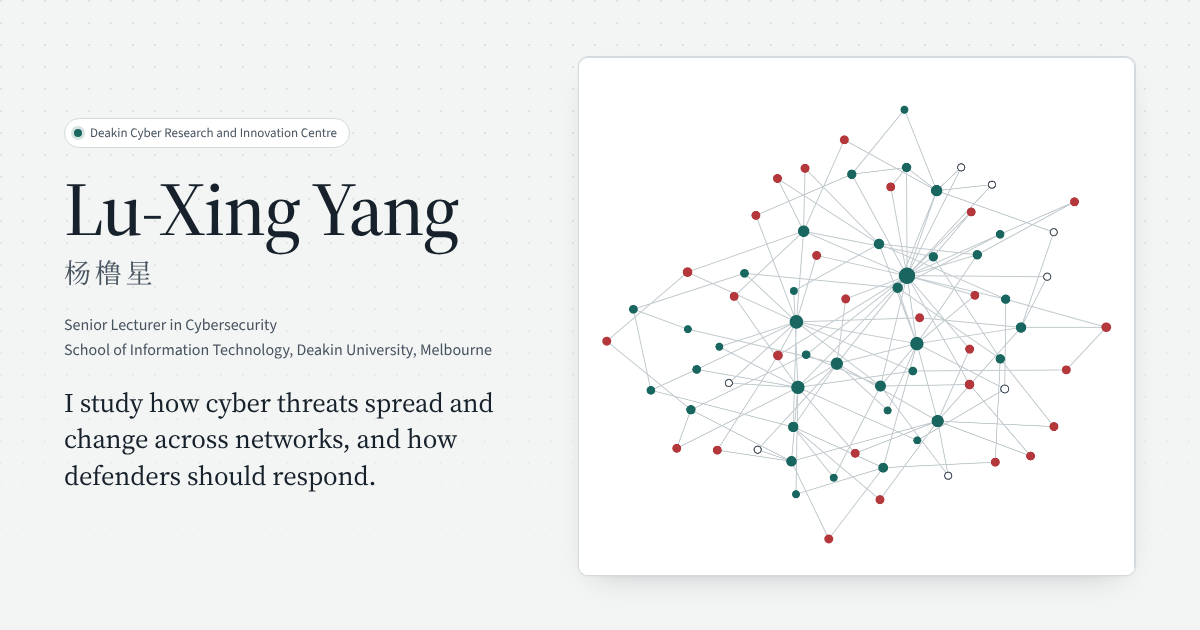
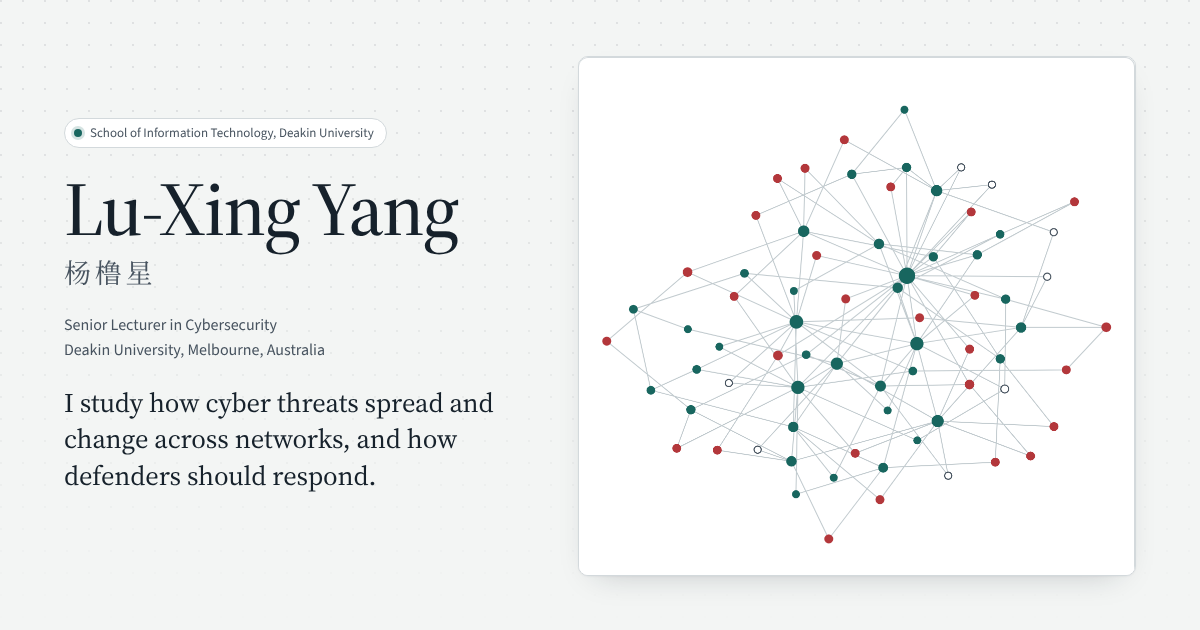
Name only the School of Information Technology as the affiliation
Drop every mention of the Deakin Cyber Research and Innovation Centre,
including the stream it hosts: hero badge, About text (EN and ZH),
appointments, the HDR coordinator role, structured data and the share
image, which is re-rendered and versioned so previews refresh.

Claude-Session: https://claude.ai/code/session_01N2e5Gw34mupKycE3QWt53y

Changed region(s): [[0.0925, 0.181, 0.3083, 0.2413], [0.0617, 0.5429, 0.4008, 0.573]]

diff --git a/index.html b/index.html
@@ -14,7 +14,7 @@
 <meta property="og:site_name" content="Lu-Xing Yang">
 <meta property="og:description" content="Senior Lecturer in Cybersecurity, School of Information Technology, Deakin University. He studies how cyber threats spread across networks and how to defend against them, using game theory, optimal control and reinforcement learning.">
 <meta property="og:url" content="https://lyang910920.github.io/">
-<meta property="og:image" content="https://lyang910920.github.io/assets/og.png">
+<meta property="og:image" content="https://lyang910920.github.io/assets/og.png?v=d93e9091">
 <meta property="og:image:alt" content="Lu-Xing Yang 杨橹星, Senior Lecturer in Cybersecurity at Deakin University, beside a drawing of a network with infected and patched hosts">
 <meta property="og:image:width" content="1200">
 <meta property="og:image:height" content="630">
@@ -741,7 +741,7 @@ h1,h2,h3,h4,.qq,.gt,.what,.lt,.pub-t,.case-k,.pub-note,.sub-h{text-wrap:balance}
   "alternateName": ["杨橹星", "Luxing Yang"],
   "jobTitle": "Senior Lecturer in Cybersecurity",
   "worksFor": {"@type": "CollegeOrUniversity", "name": "Deakin University", "url": "https://www.deakin.edu.au/"},
-  "affiliation": {"@type": "ResearchOrganization", "name": "Deakin Cyber Research and Innovation Centre"},
+  "affiliation": {"@type": "Organization", "name": "School of Information Technology, Deakin University"},
   "alumniOf": {"@type": "CollegeOrUniversity", "name": "Chongqing University"},
   "email": "mailto:y.luxing@deakin.edu.au",
   "address": {"@type": "PostalAddress", "streetAddress": "221 Burwood Highway", "addressLocality": "Burwood", "addressRegion": "VIC", "postalCode": "3125", "addressCountry": "AU"},
@@ -868,7 +868,7 @@ h1,h2,h3,h4,.qq,.gt,.what,.lt,.pub-t,.case-k,.pub-note,.sub-h{text-wrap:balance}
   <div class="wrap">
     <div class="hero-grid">
     <div class="intro">
-      <p class="where" style="--k:0"><span class="dot" aria-hidden="true"></span><span class="en">Deakin Cyber Research and Innovation Centre</span><span class="zh" lang="zh-Hans">迪肯大学网络安全研究与创新中心</span></p>
+      <p class="where" style="--k:0"><span class="dot" aria-hidden="true"></span><span class="en">School of Information Technology, <span class="nw">Deakin University</span></span><span class="zh" lang="zh-Hans">迪肯大学信息技术学院</span></p>
       <h1 class="name" id="name" style="--k:1">
         <span class="en">Lu-Xing Yang<span class="name-sub" lang="zh-Hans">杨橹星</span></span>
         <span class="zh" lang="zh-Hans">杨橹星<span class="name-sub" lang="en">Lu-Xing Yang</span></span>
@@ -1042,12 +1042,12 @@ h1,h2,h3,h4,.qq,.gt,.what,.lt,.pub-t,.case-k,.pub-note,.sub-h{text-wrap:balance}
       </ul>
     </div>
     <div class="body prose rv">
-      <p class="en">I am a Senior Lecturer in the School of Information Technology at Deakin University, Melbourne, where I lead the Adaptive and Intelligent Cyber-Modelling and Decision-Making stream of the Deakin Cyber Research and Innovation Centre. I received my PhD in Computer Science from Chongqing University in 2015. Before joining the Deakin faculty in 2019, I held research positions at Imperial College London, Delft University of Technology and Deakin University.</p>
+      <p class="en">I am a Senior Lecturer in the School of Information Technology at Deakin University, Melbourne. I received my PhD in Computer Science from Chongqing University in 2015. Before joining the Deakin faculty in 2019, I held research positions at Imperial College London, Delft University of Technology and Deakin University.</p>
       <p class="en">My research on cyber threat dynamics and intelligent defense covers threat propagation in complex networks, dynamic attack–defense games, rumor control and learning-based autonomous defense. The methods come from complex network dynamics, game theory, optimal control, and single- and multi-agent reinforcement learning. For advanced persistent threats (APTs), I developed the first node-level epidemic models of attack–defense dynamics and derived defense strategies from optimal control and differential games. I introduced impulsive control theory into cyber-warfare modeling, and gave the first rigorous analysis of multiple competing viruses spreading over complex networks. Because the competing viruses can be malware, opinions or products, that analysis applies to malware suppression, rumor containment and word-of-mouth marketing.</p>
       <p class="en">I have published more than 100 papers: seven in IEEE TIFS; others in IEEE TDSC, TSMC, TNSE and TCSS; and more than ten at CORE A*/A conferences such as IJCAI, AsiaCCS and PAKDD. As a chief investigator, I have secured over AUD 1.2 million in research funding. I am an IEEE Senior Member and an Academic Editor of <i>PLOS ONE</i>. Research.com named me among its Best Computer Science Scientists 2026, and in 2021 The Australian’s Research Magazine listed me among Australia’s top 40 early career researchers.</p>
 
       <p class="en">Public services, businesses and households now depend on networks, and how a defender spends limited resources decides how far an attack can reach. My aim is to give those decisions a rigorous basis, and to mentor the students who will carry the work forward.</p>
-      <p class="zh" lang="zh-Hans">杨橹星，澳大利亚迪肯大学（Deakin University）信息技术学院高级讲师，在该校网络安全研究与创新中心（Deakin Cyber Research and Innovation Centre）负责自适应智能网络建模与决策（Adaptive and Intelligent Cyber-Modelling and Decision-Making）方向。2015 年在重庆大学获得计算机科学博士学位，曾在英国帝国理工学院、荷兰代尔夫特理工大学和迪肯大学做研究，2019 年起在迪肯大学任教。</p>
+      <p class="zh" lang="zh-Hans">杨橹星，澳大利亚迪肯大学（Deakin University）信息技术学院高级讲师。2015 年在重庆大学获得计算机科学博士学位，曾在英国帝国理工学院、荷兰代尔夫特理工大学和迪肯大学做研究，2019 年起在迪肯大学任教。</p>
       <p class="zh" lang="zh-Hans">他的研究方向是网络空间威胁演化与智能防御，具体包括：威胁在复杂网络中的传播与风险演化，动态攻防博弈与资源有限时的协同防御，谣言控制建模，以及把机理模型和学习方法结合起来的自主防御。用到的方法有复杂网络动力学、博弈论、最优控制、强化学习和多智能体强化学习。他率先建立了高级持续性威胁（APT）攻防的节点级传播模型，并提出了基于最优控制和微分博弈的 APT 防御策略。他把脉冲控制理论引入了网络战建模。对复杂网络上多种病毒的竞争传播，他首次给出了严格分析；这里的“病毒”可以是相互竞争的恶意软件、观点或产品，因此这些结果可用于恶意软件抑制、谣言遏制和口碑营销。</p>
       <p class="zh" lang="zh-Hans">已发表论文 100 余篇：IEEE TIFS 7 篇，IEEE TDSC、TSMC、TNSE、TCSS 等期刊上也有论文，IJCAI、AsiaCCS、PAKDD 等 CORE A*/A 类会议论文 10 余篇。作为主要研究者（CI），他获得的科研经费超过 120 万澳元。现为 IEEE 高级会员、<i>PLOS ONE</i> 学术编辑。2026 年入选 Research.com 全球最佳计算机科学家榜单（Best Computer Science Scientists 2026）；2021 年入选《澳大利亚人报》（The Australian）Research Magazine 评选的澳大利亚 40 位顶尖青年学者。</p>
       <p class="zh" lang="zh-Hans">公共服务、企业和家庭都已离不开网络，防御方怎样使用有限的资源，决定了攻击能走多远。他致力于为这些决定提供严谨的依据，也重视培养能把这项工作继续推进的学生。</p>
@@ -1739,12 +1739,12 @@ h1,h2,h3,h4,.qq,.gt,.what,.lt,.pub-t,.case-k,.pub-note,.sub-h{text-wrap:balance}
           <li class="now">
             <span class="when"><span class="en">Jan 2026 – present</span><span class="zh" lang="zh-Hans">2026.01 至今</span></span>
             <p class="what"><span class="en">Senior Lecturer (equivalent to Associate Professor in North America)</span><span class="zh" lang="zh-Hans">高级讲师（相当于北美副教授）</span><span class="now-b"><span class="en">Current</span><span class="zh" lang="zh-Hans">现任</span></span>
-              <small><span class="en">Deakin Cyber Research and Innovation Centre and School of Information Technology, Deakin University</span><span class="zh" lang="zh-Hans">迪肯大学网络安全研究与创新中心、信息技术学院</span></small></p>
+              <small><span class="en">School of Information Technology, Deakin University</span><span class="zh" lang="zh-Hans">迪肯大学信息技术学院</span></small></p>
           </li>
           <li>
             <span class="when"><span class="en">Oct 2019 – Dec 2025</span><span class="zh" lang="zh-Hans">2019.10 – 2025.12</span></span>
             <p class="what"><span class="en">Lecturer</span><span class="zh" lang="zh-Hans">讲师</span>
-              <small><span class="en">Deakin Cyber Research and Innovation Centre and School of Information Technology, Deakin University</span><span class="zh" lang="zh-Hans">迪肯大学网络安全研究与创新中心、信息技术学院</span></small></p>
+              <small><span class="en">School of Information Technology, Deakin University</span><span class="zh" lang="zh-Hans">迪肯大学信息技术学院</span></small></p>
           </li>
           <li>
             <span class="when"><span class="en">Feb 2018 – Oct 2019</span><span class="zh" lang="zh-Hans">2018.02 – 2019.10</span></span>
@@ -1828,7 +1828,7 @@ h1,h2,h3,h4,.qq,.gt,.what,.lt,.pub-t,.case-k,.pub-note,.sub-h{text-wrap:balance}
         <ul class="items">
           <li>
             <span class="when">2022–2024</span>
-            <p class="what"><span class="en">Higher Degree by Research (HDR) Coordinator, Deakin Cyber Research and Innovation Centre</span><span class="zh" lang="zh-Hans">迪肯大学网络安全研究与创新中心研究生（HDR）协调人</span></p>
+            <p class="what"><span class="en">Higher Degree by Research (HDR) Coordinator, School of Information Technology</span><span class="zh" lang="zh-Hans">迪肯大学信息技术学院研究生（HDR）协调人</span></p>
           </li>
           <li>
             <span class="when"><span class="en">Ongoing</span><span class="zh" lang="zh-Hans">现任</span></span>
